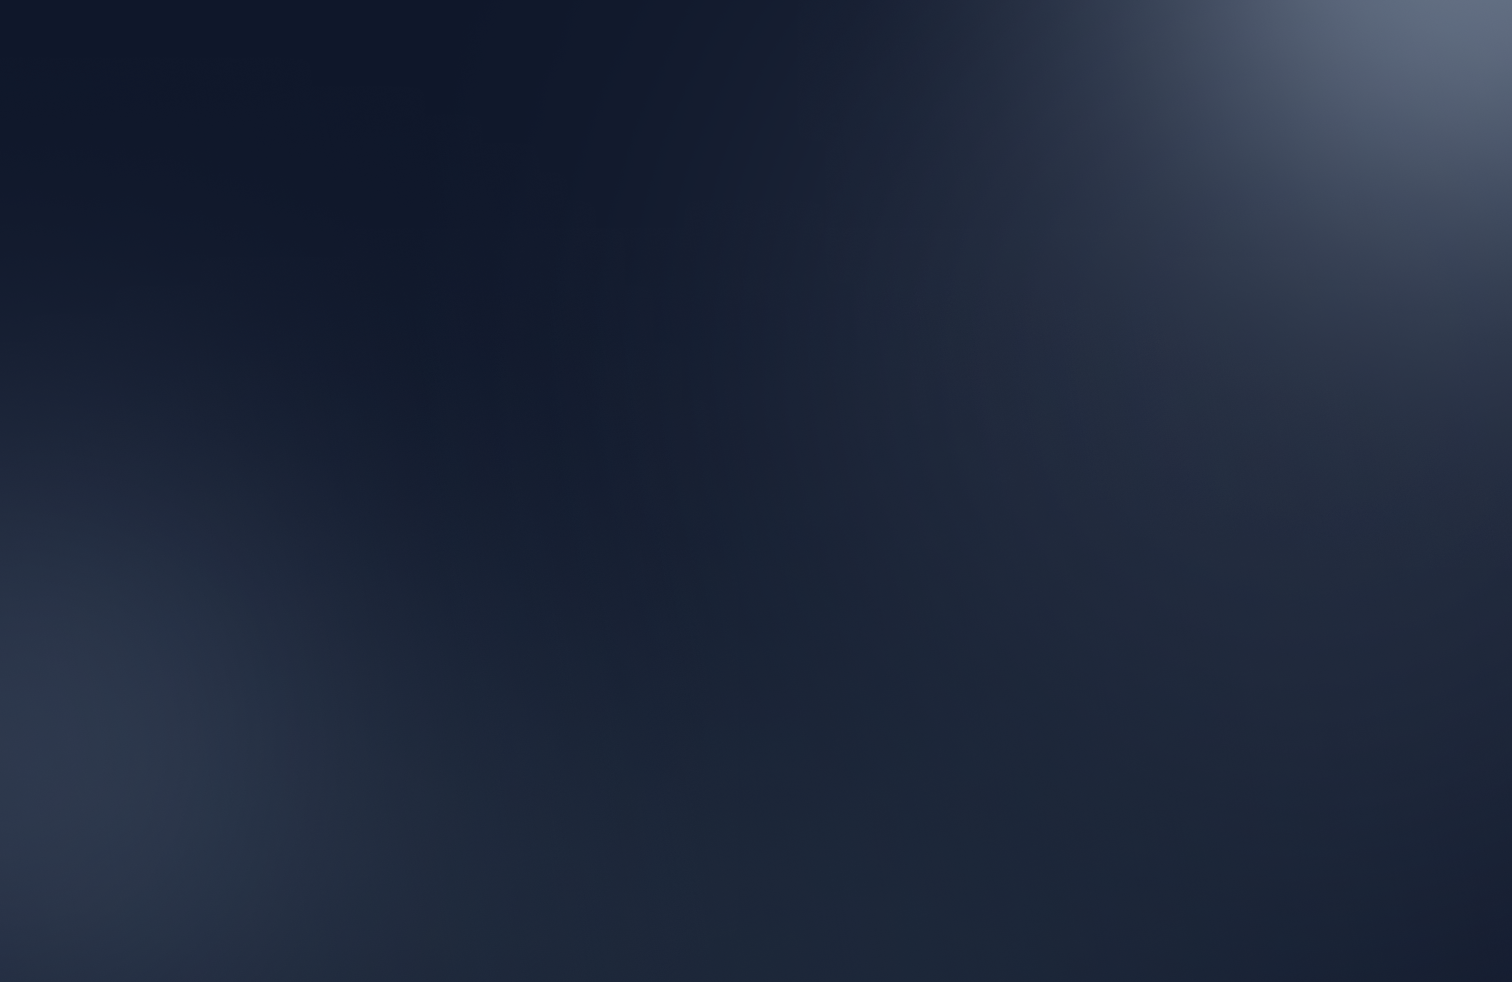
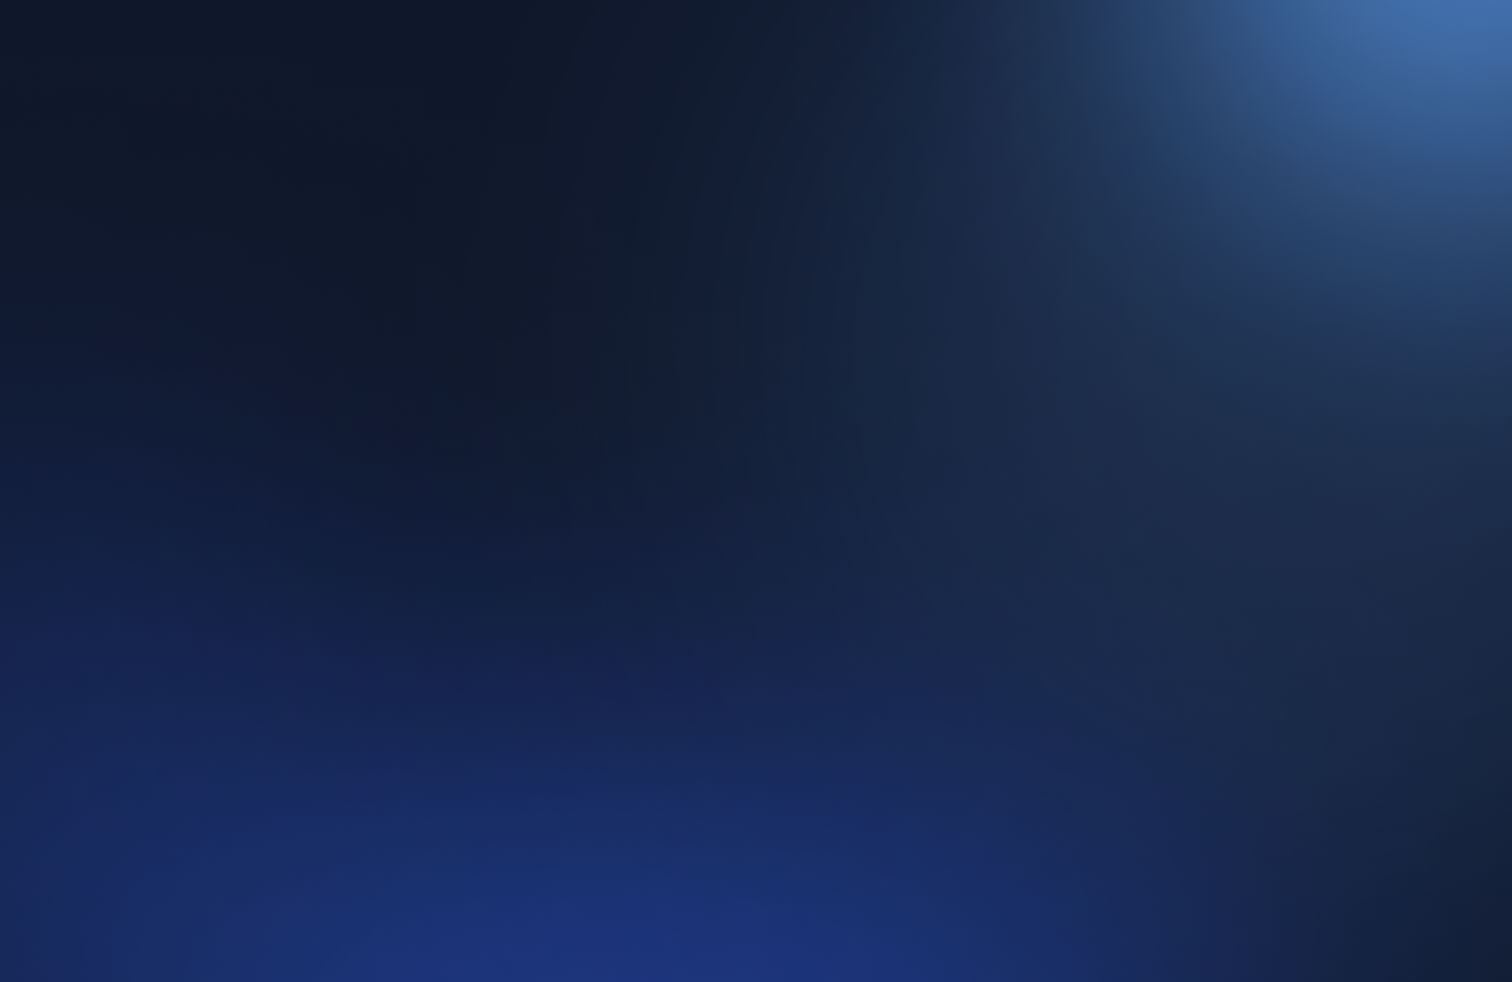
Some color changes

Changed region(s): [[0.0, 0.6721, 0.8393, 1.0], [0.7771, 0.0, 1.0, 0.2138]]

diff --git a/app/page.tsx b/app/page.tsx
@@ -480,11 +480,11 @@ export default function Page() {
                           className={classNames(
                             'bg-gray-50 border border-gray-300 w-full',
                             'text-gray-900 text-sm rounded-lg',
-                            'focus:ring-slate-500 focus:border-slate-500',
+                            'focus:ring-blue-500 focus:border-blue-500',
                             'flex-1 p-2.5 dark:bg-gray-900',
                             'dark:border-gray-600 dark:placeholder-gray-400',
-                            'dark:text-white dark:focus:ring-slate-500',
-                            'dark:focus:border-slate-500',
+                            'dark:text-white dark:focus:ring-blue-500',
+                            'dark:focus:border-blue-500',
                           )}
                           onFocus={() => setInputFocused(true)}
                         />
@@ -530,11 +530,9 @@ export default function Page() {
                   </div>
                 </>
               ) : (
-                <div className='flex h-full flex-col items-center justify-center'>
-                  <h1 className='mb-3 text-center text-3xl font-bold dark:text-white'>
-                    Meet ZiAI, your very own AI assistant
-                  </h1>
-                  <Button onClick={() => setHasStarted(true)}>Start</Button>
+                <div className='flex h-full flex-col items-center justify-center gap-3'>
+                  <h1 className='text-center text-3xl font-bold dark:text-white'>Hi! I'm Zi, your IT guy!</h1>
+                  <Button onClick={() => setHasStarted(true)}>Start Experience</Button>
                 </div>
               )}
             </div>

diff --git a/src/components/ChatBubble.tsx b/src/components/ChatBubble.tsx
@@ -11,10 +11,10 @@ export default function ChatBubble({
   return (
     <div
       className={classNames(
-        'rounded-2xl py-3 px-4 mb-4 shadow-2xl w-fit max-w-[600px]',
+        'rounded-2xl py-3 px-4 mb-4 w-fit max-w-[600px]',
         chat.role === 'assistant'
-          ? 'text-left bg-gradient-to-tr text-white from-slate-400 to-slate-500 dark:from-slate-900 dark:to-slate-700 rounded-es-none'
-          : 'text-right bg-gradient-to-tl border border-slate-500 bg-white text-black dark:bg-black dark:text-white rounded-ee-none',
+          ? 'text-left bg-gradient-to-tr text-white from-blue-400 to-blue-500 dark:from-blue-900 dark:to-blue-700 rounded-es-none'
+          : 'text-right bg-gradient-to-tl border border-blue-500 bg-white text-black dark:bg-black dark:text-white rounded-ee-none',
       )}
     >
       {chat.isError ? (

diff --git a/tailwind.config.js b/tailwind.config.js
@@ -5,18 +5,18 @@ module.exports = {
   theme: {
     extend: {
       colors: {
-        blue: {
-          DEFAULT: '#0053FF',
-          100: '#A3C9FF',
-          200: '#7AAEFF',
-          300: '#5993FF',
-          400: '#4178FF',
-          500: '#2665FF',
-          600: '#0053FF',
-          700: '#0047E6',
-          800: '#003BCC',
-          900: '#002FB3',
-        },
+        // blue: {
+        //   DEFAULT: '#0053FF',
+        //   100: '#A3C9FF',
+        //   200: '#7AAEFF',
+        //   300: '#5993FF',
+        //   400: '#4178FF',
+        //   500: '#2665FF',
+        //   600: '#0053FF',
+        //   700: '#0047E6',
+        //   800: '#003BCC',
+        //   900: '#002FB3',
+        // },
         sky: {
           DEFAULT: '#00E6D9',
           100: '#B3FFFF',

diff --git a/src/components/Button.tsx b/src/components/Button.tsx
@@ -14,11 +14,11 @@ export default function Button({
     <button
       className={classNames(
         'transition-all duration-100',
-        'bg-slate-200 hover:bg-slate-300 active:bg-slate-700',
-        'dark:bg-slate-600 dark:hover:bg-slate-800 dark:active:bg-slate-900 dark:text-white',
+        'bg-blue-200 hover:bg-blue-300 active:bg-blue-700',
+        'dark:bg-blue-600 dark:hover:bg-blue-800 dark:active:bg-blue-900 dark:text-white',
         'cursor-pointer rounded disabled:cursor-not-allowed disabled:text-gray-400',
         rounded && 'rounded-full',
-        'disabled:bg-slate-800',
+        'disabled:bg-blue-800',
         'px-4 py-2 flex items-center min-w-12',
         className,
       )}

diff --git a/src/components/canvas/View.tsx b/src/components/canvas/View.tsx
@@ -18,7 +18,7 @@ export const Common: React.FC<CommonProps> = ({ color, fov = 40 }) => {
       <ambientLight intensity={0.3} />
       <pointLight position={[5, 0, 30]} intensity={70} decay={1} />
       <pointLight position={[-30, 30, -30]} decay={100} intensity={10} />
-      <pointLight position={[30, 10, -30]} color='#F8FAFC' decay={0.2} intensity={5} />
+      <pointLight position={[30, 10, -30]} color='#60A5FA' decay={0.2} intensity={5} />
       <pointLight position={[-30, -10, -30]} color='#E2E8F0' decay={0.2} intensity={3} />
       {/* <pointLight position={[10, -10, 0]} color='cyan' decay={0.2} intensity={3} /> */}
       <PerspectiveCamera makeDefault fov={fov} position={[0, 0, 6]} />

diff --git a/src/components/AudioRecorder.tsx b/src/components/AudioRecorder.tsx
@@ -188,7 +188,7 @@ const AudioRecorder = ({
     <div className='flex flex-col items-center'>
       <button
         onClick={isRecording ? stopRecording : startRecording}
-        className={`flex items-center justify-center rounded-full text-white transition-all ${isRecording ? 'size-24 bg-red-500 hover:bg-red-600' : 'size-12 bg-slate-500 hover:bg-slate-600'}`}
+        className={`flex items-center justify-center rounded-full text-white transition-all ${isRecording ? 'size-24 bg-red-500 hover:bg-red-600' : 'size-12 bg-blue-500 hover:bg-blue-600'}`}
         style={{
           boxShadow: isRecording ? `0 0 ${Math.min(volume, 30)}px rgba(255, 0, 0, 0.8)` : 'none',
         }}
